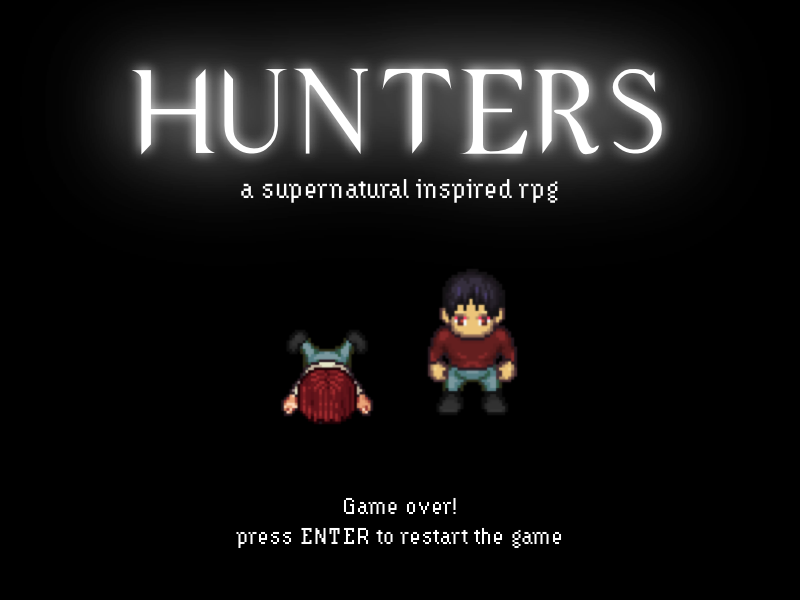
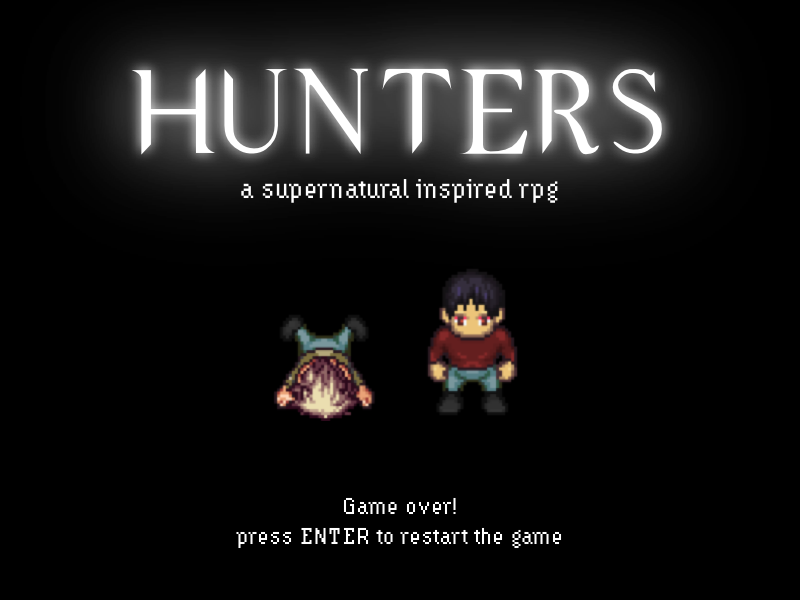
feature: add demon and sam, weapon

Changed region(s): [[0.3438, 0.51, 0.4688, 0.72]]

diff --git a/game/data/maps/demon.tsx b/game/data/maps/demon.tsx
@@ -1,0 +1,4 @@
+<?xml version="1.0" encoding="UTF-8"?>
+<tileset name="demon_lo1" tilewidth="32" tileheight="32" tilecount="2" columns="1">
+  <image source="data/maps/demon.png" trans="ff00ff" width="32" height="64"/>
+</tileset>

diff --git a/game/data/maps/sam.tsx b/game/data/maps/sam.tsx
@@ -1,0 +1,4 @@
+<?xml version="1.0" encoding="UTF-8"?>
+<tileset name="sam_lo" tilewidth="32" tileheight="32" tilecount="2" columns="1">
+  <image source="data/maps/sam.png" trans="ff00ff" width="32" height="64"/>
+</tileset>
